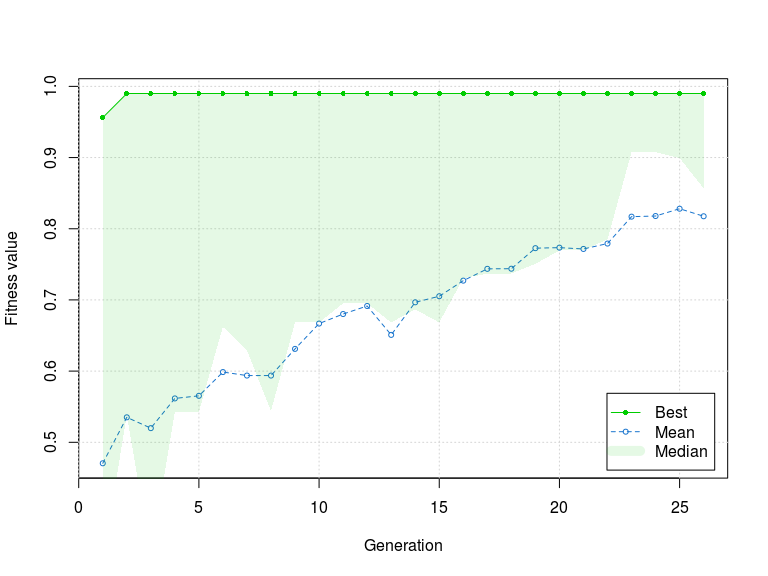
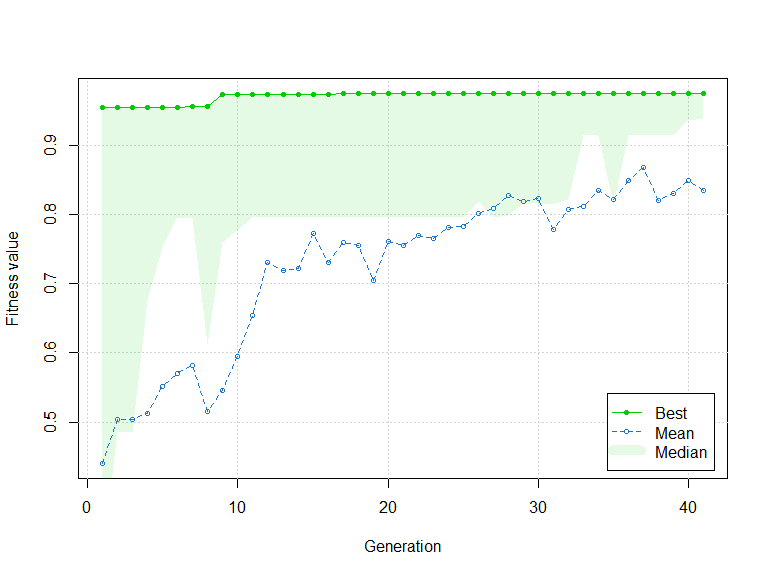
Updated README example.

diff --git a/README.md b/README.md
@@ -1,4 +1,5 @@
 <!-- README.md is generated from README.Rmd. Please edit that file -->
+
 [![Build
 Status](https://travis-ci.org/jonathan-g/datafsm.png?branch=master)](https://travis-ci.org/jonathan-g/datafsm)
 [![CRAN\_Status\_Badge](http://www.r-pkg.org/badges/version-last-release/datafsm)](http://cran.r-project.org/package=datafsm)
@@ -12,13 +13,13 @@ structure of complex stochastic processes. The genetic algorithm is
 implemented with the **GA** package ([Scrucca
 2013](http://www.jstatsoft.org/v53/i04/)). Our method, implemented in
 C++ and R, scales well to large data sets. We have applied the package
-to empirical data, and demonstrated the method's ability to recover
+to empirical data, and demonstrated the method’s ability to recover
 known data-generating processes by simulating data with agent-based
 models and correctly deriving the underlying decision models for
 multiple agent models and degrees of stochasticity.
 
 A user of our package can estimate models by providing their data in a
-common "panel data" format. The package is designed to estimate time
+common “panel data” format. The package is designed to estimate time
 series classification models that use a small number of binary predictor
 variables and move back and forth between the values of the outcome
 variable over time. Larger sets of predictor variables can be reduced to
@@ -59,20 +60,24 @@ Fake Data Example
 =================
 
 To quickly show it works, we can create fake data. Here, we generate
-1000 repetitions of a ten-round game in which each player starts by
-making a random move, and in subsequent rounds, one player follows a
-"tit-for-tat" strategy while the other one follows a "noisy tit-for-tat"
-strategy that's equivalent to tit-for-tat, except that with a 10%
-probability the player will make a random move.
+4000 repetitions of a 20-round game in which each player starts by
+making a random move, and in subsequent rounds, each player follows a
+“noisy tit-for-tat” strategy that’s equivalent to tit-for-tat, except
+that with a 5% probability the player will make a random move.
 
 ``` r
-seed1 <- 1900
-seed2 <- 1900
-seed3 <- 1900
-# 468534172
+rounds <- 20
+reps <- 4000
+noise_level <- 0.05
+```
+
+``` r
+seed1 <- 1372456261
+seed2 <-  597693057
+seed3 <-  805078823
 set.seed(seed1)
 cdata <- data.frame(outcome = NA,
-                    period = rep(1:10, 2000),
+                    period = rep(seq(rounds), reps),
                     my.decision1 = NA,
                     other.decision1 = NA)
 #
@@ -90,8 +95,6 @@ tit_for_tat <- function(last_round_self, last_round_opponent) {
     last_round_opponent
 }
 
-noise_level = 0.1
-
 noisy_tit_for_tat <- function(last_round_self, last_round_opponent, noise_level) {
   if (runif(1,0,1) <= noise_level) {
     sample(0:1,1)
@@ -103,12 +106,12 @@ noisy_tit_for_tat <- function(last_round_self, last_round_opponent, noise_level)
 for (i in seq_along(cdata$period)) {
   if (cdata$period[i] == 1) {
     my.decision <- sample(0:1,1, prob = c(1 - noise_level, noise_level))
-    other.decision <- sample(0:1,1)
+    other.decision <- sample(0:1,1, prob = c(1 - noise_level, noise_level))
     cdata[i, "outcome"] <- pd_outcome(my.decision, other.decision)
   } else{
     my.last <- my.decision
     other.last <- other.decision
-    my.decision <- tit_for_tat(my.last, other.last)
+    my.decision <- noisy_tit_for_tat(my.last, other.last, noise_level)
     other.decision <- noisy_tit_for_tat(other.last, my.last, noise_level)
     cdata[i,c("outcome", "my.decision1", "other.decision1")] <- 
       c(pd_outcome(my.decision, other.decision), my.last, other.last)
@@ -118,15 +121,15 @@ for (i in seq_along(cdata$period)) {
 
 The only required argument of the main function of the package,
 `evolve_model`, is a `data.frame` object, which must have 3-5 columns.
-The first two columns must be named "period" and "outcome" (period is
+The first two columns must be named “period” and “outcome” (period is
 the time period that the outcome action was taken). The remaining one to
 three columns are predictors, and may have arbitrary names. Each row of
 the `data.frame` is an observational unit, an action taken at a
 particular time and any relevant variables for that time. All of the
 (3-5 columns) should be named. The period and outcome columns should be
-integer vectors---e.g. `c(1,2,1)`---and the columns with the predictor
-variable data should be logical vectors---e.g. `c(TRUE, FALSE, FALSE)`---or 
-vectors that can be coerced to logical with `as.logical()`.
+integer vectors — e.g. `c(1,2,1)` — and the columns with the predictor
+variable data should be logical vectors — e.g. `c(TRUE, FALSE, FALSE)` —
+or vectors that can be coerced to logical with `as.logical()`.
 
 Here are the first eleven rows of this fake data:
 
@@ -135,14 +138,14 @@ Here are the first eleven rows of this fake data:
 |        1|       1|            NA|               NA|
 |        1|       2|             0|                0|
 |        1|       3|             0|                0|
-|        1|       4|             0|                0|
-|        1|       5|             0|                0|
-|        1|       6|             0|                0|
-|        1|       7|             0|                0|
-|        1|       8|             0|                0|
-|        1|       9|             0|                0|
-|        1|      10|             0|                0|
-|        1|       1|            NA|               NA|
+|        2|       4|             0|                0|
+|        1|       5|             1|                0|
+|        2|       6|             0|                1|
+|        1|       7|             1|                0|
+|        2|       8|             0|                1|
+|        1|       9|             1|                0|
+|        2|      10|             0|                1|
+|        1|      11|             1|                0|
 
 We can estimate a model with that data. `evolve_model` uses a genetic
 algorithm to estimate a finite-state machine (FSM) model, primarily for
@@ -223,7 +226,7 @@ plot(res, action_label = ifelse(action_vec(res)==1, "C", "D"),
 object.](man/figures/README/plot.fsm-1.png)
 
 The diagram shows that `evolve_model` recovered a tit-for-tat model in
-which the player in question ("me") mimics the last action of the
+which the player in question (“me”) mimics the last action of the
 opponent.
 
 Use the `estimation_details` method on the output of the
@@ -249,53 +252,40 @@ Session Info
 
 ``` r
 sessionInfo()
-#> R version 3.4.4 (2018-03-15)
-#> Platform: x86_64-pc-linux-gnu (64-bit)
-#> Running under: Ubuntu 16.04.5 LTS
+#> R version 3.6.1 (2019-07-05)
+#> Platform: x86_64-w64-mingw32/x64 (64-bit)
+#> Running under: Windows 10 x64 (build 18363)
 #> 
 #> Matrix products: default
-#> BLAS: /usr/lib/libblas/libblas.so.3.6.0
-#> LAPACK: /usr/lib/lapack/liblapack.so.3.6.0
 #> 
 #> locale:
-#>  [1] LC_CTYPE=en_US.UTF-8       LC_NUMERIC=C              
-#>  [3] LC_TIME=en_US.UTF-8        LC_COLLATE=en_US.UTF-8    
-#>  [5] LC_MONETARY=en_US.UTF-8    LC_MESSAGES=en_US.UTF-8   
-#>  [7] LC_PAPER=en_US.UTF-8       LC_NAME=C                 
-#>  [9] LC_ADDRESS=C               LC_TELEPHONE=C            
-#> [11] LC_MEASUREMENT=en_US.UTF-8 LC_IDENTIFICATION=C       
+#> [1] LC_COLLATE=English_United States.1252 
+#> [2] LC_CTYPE=English_United States.1252   
+#> [3] LC_MONETARY=English_United States.1252
+#> [4] LC_NUMERIC=C                          
+#> [5] LC_TIME=English_United States.1252    
 #> 
 #> attached base packages:
 #> [1] stats     graphics  grDevices utils     datasets  methods   base     
 #> 
 #> other attached packages:
-#> [1] GA_3.1.1         iterators_1.0.10 foreach_1.4.4    datafsm_0.2.2   
+#> [1] GA_3.2           iterators_1.0.12 foreach_1.4.7    datafsm_0.2.3   
 #> 
 #> loaded via a namespace (and not attached):
-#>  [1] magic_1.5-8         ddalpha_1.3.4       tidyr_0.8.1        
-#>  [4] sfsmisc_1.1-2       splines_3.4.4       prodlim_2018.04.18 
-#>  [7] assertthat_0.2.0    highr_0.7           stats4_3.4.4       
-#> [10] DRR_0.0.3           yaml_2.1.19         robustbase_0.93-1.1
-#> [13] ipred_0.9-6         diagram_1.6.4       pillar_1.3.0       
-#> [16] backports_1.1.2     lattice_0.20-35     glue_1.3.0         
-#> [19] digest_0.6.15       colorspace_1.3-2    recipes_0.1.3      
-#> [22] htmltools_0.3.6     Matrix_1.2-14       plyr_1.8.4         
-#> [25] timeDate_3043.102   pkgconfig_2.0.1     CVST_0.2-2         
-#> [28] broom_0.5.0         caret_6.0-80        purrr_0.2.5        
-#> [31] scales_0.5.0        gower_0.1.2         lava_1.6.2         
-#> [34] tibble_1.4.2        ggplot2_3.0.0.9000  withr_2.1.2        
-#> [37] nnet_7.3-12         lazyeval_0.2.1      cli_1.0.0          
-#> [40] survival_2.42-6     magrittr_1.5        crayon_1.3.4       
-#> [43] evaluate_0.11       doParallel_1.0.11   nlme_3.1-137       
-#> [46] MASS_7.3-50         dimRed_0.1.0        class_7.3-14       
-#> [49] tools_3.4.4         stringr_1.3.1       kernlab_0.9-26     
-#> [52] munsell_0.5.0       bindrcpp_0.2.2      pls_2.6-0          
-#> [55] compiler_3.4.4      RcppRoll_0.3.0      rlang_0.2.1        
-#> [58] grid_3.4.4          rmarkdown_1.10      geometry_0.3-6     
-#> [61] gtable_0.2.0        ModelMetrics_1.1.0  codetools_0.2-15   
-#> [64] abind_1.4-5         reshape2_1.4.3      R6_2.2.2           
-#> [67] lubridate_1.7.4     knitr_1.20          dplyr_0.7.6        
-#> [70] bindr_0.1.1         rprojroot_1.3-2     shape_1.4.4        
-#> [73] stringi_1.2.4       parallel_3.4.4      Rcpp_0.12.18       
-#> [76] rpart_4.1-13        DEoptimR_1.0-8      tidyselect_0.2.4
+#>  [1] shape_1.4.4        diagram_1.6.4      tidyselect_0.2.5   xfun_0.11         
+#>  [5] reshape2_1.4.3     purrr_0.3.3        splines_3.6.1      lattice_0.20-38   
+#>  [9] colorspace_1.4-1   generics_0.0.2     stats4_3.6.1       htmltools_0.4.0   
+#> [13] yaml_2.2.0         survival_3.1-7     prodlim_2019.11.13 rlang_0.4.2       
+#> [17] ModelMetrics_1.2.2 pillar_1.4.2       withr_2.1.2        glue_1.3.1        
+#> [21] lifecycle_0.1.0    plyr_1.8.4         lava_1.6.6         stringr_1.4.0     
+#> [25] timeDate_3043.102  munsell_0.5.0      gtable_0.3.0       recipes_0.1.7     
+#> [29] codetools_0.2-16   evaluate_0.14      knitr_1.26         doParallel_1.0.15 
+#> [33] caret_6.0-84       parallel_3.6.1     class_7.3-15       highr_0.8         
+#> [37] Rcpp_1.0.3         scales_1.1.0       ipred_0.9-9        ggplot2_3.2.1     
+#> [41] digest_0.6.23      stringi_1.4.3      dplyr_0.8.3        grid_3.6.1        
+#> [45] cli_1.1.0          tools_3.6.1        magrittr_1.5       lazyeval_0.2.2    
+#> [49] tibble_2.1.3       crayon_1.3.4       pkgconfig_2.0.3    MASS_7.3-51.4     
+#> [53] Matrix_1.2-17      data.table_1.12.6  lubridate_1.7.4    gower_0.2.1       
+#> [57] assertthat_0.2.1   rmarkdown_1.18     R6_2.4.1           rpart_4.1-15      
+#> [61] nnet_7.3-12        nlme_3.1-142       compiler_3.6.1
 ```
